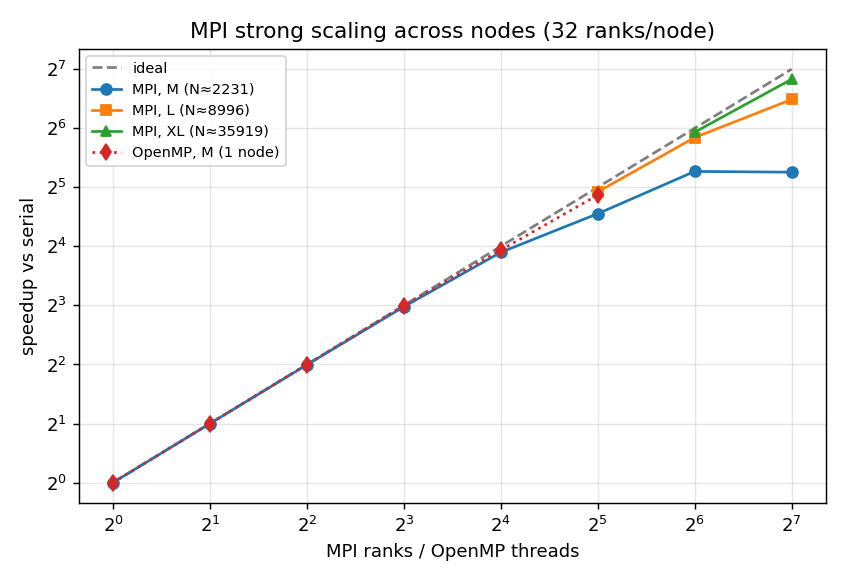
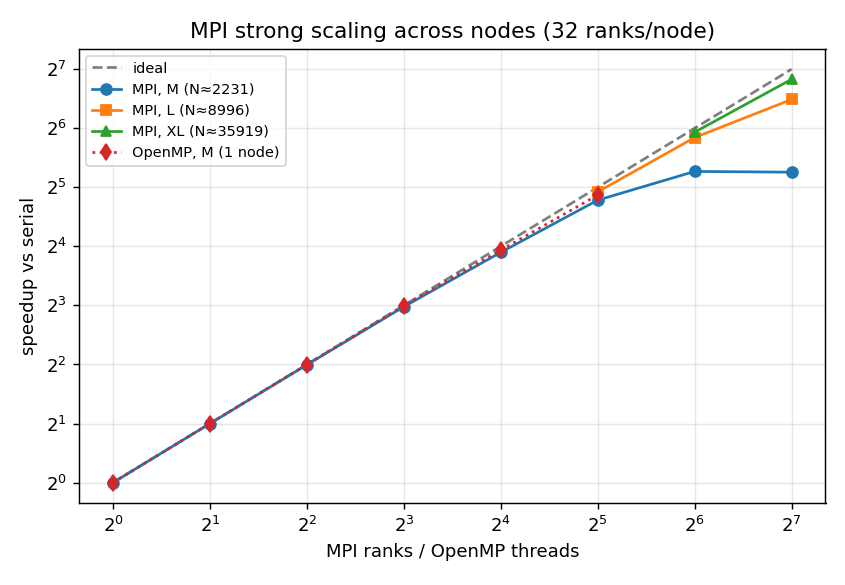
Particles: fix MPI aggregation — group by (ranks, nodes), not ranks alone
parse_mpi.py blended the single-node job's 32-rank runs (0.128 s) with the
4-node job's 32-rank runs (0.184 s, ranks spread over the allocation) into
one median, reporting M/32 as 23.5x/73%. Node count now comes from the log's
"# nodes:" header and flows through mpi.csv, the summary table, and the plots
(strong-scaling curves use the fastest allocation per rank count). Corrected
figures: M/32 packed = 27.5x (86%); M/32 over 4 nodes = 19.2x (60%). Also
relabels L/32, 64-rank, and W64 rows as 4-node-allocation runs in the summary
and in LEONARDO_RUN_STATUS.md. Data regenerated from the committed logs; no
cluster rerun needed.

diff --git a/tools/parse_mpi.py b/tools/parse_mpi.py
@@ -23,6 +23,11 @@ MARK = re.compile(r"-{2,}\s*BENCH\s+(?P<model>mpi(?:_weak)?)\s+ranks=(?P<ranks>\
 RE_N = re.compile(r"Particles:\s+(\d+)")
 RE_T = re.compile(r"Pure dynamics time:\s+([0-9.eE+-]+)\s*s")
 RE_G = re.compile(r"Pure dynamics performance:\s+([0-9.eE+-]+)\s*GInteractions/s")
+# Job-level allocation size, printed once per log by run_mpi_nodes.sh
+# ("# nodes: 4  (lrdn[...])"). Logs without it (run_mpi_all.sh) are 1-node jobs.
+# srun steps inside a multi-node allocation spread their ranks across ALL
+# allocated nodes, so every run inherits the log's allocation size.
+RE_NODES = re.compile(r"#\s*nodes:\s*(\d+)")
 
 
 def parse(paths):
@@ -32,11 +37,13 @@ def parse(paths):
             lines = open(p, encoding="utf-8", errors="replace").read().splitlines()
         except OSError as e:
             print(f"[warn] cannot read {p}: {e}", file=sys.stderr); continue
+        nodes = 1
         for ln in lines:
+            if (mm := RE_NODES.search(ln)): nodes = int(mm[1])
             if (m := MARK.search(ln)):
                 if cur: runs.append(cur)
                 cur = {"model": m["model"], "ranks": int(m["ranks"]), "size": m["size"],
-                       "rep": int(m["rep"]), "N": None, "time": None, "giups": None}
+                       "rep": int(m["rep"]), "nodes": nodes, "N": None, "time": None, "giups": None}
                 continue
             if cur is None: continue
             if (mm := RE_N.search(ln)) and cur["N"] is None: cur["N"] = int(mm[1])
@@ -82,32 +89,37 @@ def main():
         print("No MPI runs found.", file=sys.stderr); return 1
 
     with open(os.path.join(args.outdir, "mpi.csv"), "w", newline="") as f:
-        w = csv.writer(f); w.writerow(["model", "size", "ranks", "rep", "N", "pure_dynamics_s", "giups"])
-        for r in sorted(runs, key=lambda r: (r["model"], r["size"], r["ranks"], r["rep"])):
-            w.writerow([r["model"], r["size"], r["ranks"], r["rep"], r["N"], r["time"], r["giups"]])
+        w = csv.writer(f); w.writerow(["model", "size", "ranks", "nodes", "rep", "N", "pure_dynamics_s", "giups"])
+        for r in sorted(runs, key=lambda r: (r["model"], r["size"], r["ranks"], r["nodes"], r["rep"])):
+            w.writerow([r["model"], r["size"], r["ranks"], r["nodes"], r["rep"], r["N"], r["time"], r["giups"]])
 
     serial = {"M": median_from_csv(args.bench_csv, "serial"),
               "L": scaling_serial(args.scaling_csv, "L"),
               "XL": scaling_serial(args.scaling_csv, "XL")}
 
+    # Group by (model, size, ranks, nodes): the same rank count measured on a
+    # 1-node vs a 4-node allocation is a different experiment (inter-node
+    # communication) and must not be blended into one median.
     g = defaultdict(list)
-    for r in runs: g[(r["model"], r["size"], r["ranks"])].append(r["time"])
+    for r in runs: g[(r["model"], r["size"], r["ranks"], r["nodes"])].append(r["time"])
     med = {k: statistics.median(v) for k, v in g.items()}
 
     md = ["# MPI benchmark summary", "",
           "Strong-scaling speedup vs the measured serial medians "
-          f"(M={serial['M']:.4g}s, L={serial['L']:.4g}s, XL={serial['XL']:.4g}s).", "",
+          f"(M={serial['M']:.4g}s, L={serial['L']:.4g}s, XL={serial['XL']:.4g}s).",
+          "`nodes` is the SLURM allocation of the job; srun spreads the ranks",
+          "across all allocated nodes, so e.g. 32 ranks / 4 nodes = 8 ranks/node",
+          "(inter-node traffic), distinct from 32 ranks packed on 1 node.", "",
           "| kind | size | ranks | nodes | median dyn (s) | speedup | efficiency |",
           "|---|---|---|---|---|---|---|"]
-    for (model, size, ranks) in sorted(med, key=lambda k: (k[0], k[1], k[2])):
-        t = med[(model, size, ranks)]
-        nodes = max(1, (ranks + 31) // 32)
+    for (model, size, ranks, nodes) in sorted(med, key=lambda k: (k[0], k[1], k[2], k[3])):
+        t = med[(model, size, ranks, nodes)]
         if model == "mpi" and serial.get(size):
             sp = serial[size] / t
             eff = sp / ranks
             md.append(f"| strong | {size} | {ranks} | {nodes} | {t:.4g} | {sp:.2f}x | {eff*100:.0f}% |")
         elif model == "mpi_weak":
-            base = med.get(("mpi_weak", "W1", 1))
+            base = med.get(("mpi_weak", "W1", 1, 1))
             weff = (base / t) if base else None
             md.append(f"| weak | {size} | {ranks} | {nodes} | {t:.4g} | - | "
                       + (f"{weff*100:.0f}% |" if weff else "- |"))
@@ -122,13 +134,19 @@ def main():
         print(f"[warn] no matplotlib: {e}", file=sys.stderr); return 0
 
     # --- strong scaling: MPI (M/L/XL) vs OpenMP (M) ---
+    # Per (size, ranks) plot the best (fastest) allocation, so each curve shows
+    # the achievable speedup at that rank count; the summary table keeps every
+    # (ranks, nodes) configuration separately.
     plt.figure(figsize=(6.5, 4.5))
     ranks_all = sorted({k[2] for k in med if k[0] == "mpi"})
     plt.plot(ranks_all, ranks_all, "k--", alpha=.5, label="ideal")
     style = {"M": ("o-", "C0"), "L": ("s-", "C1"), "XL": ("^-", "C2")}
     for size, (fmt, col) in style.items():
-        pts = sorted([(k[2], serial[size] / med[k]) for k in med
-                      if k[0] == "mpi" and k[1] == size and serial.get(size)])
+        best = {}
+        for k, t in med.items():
+            if k[0] == "mpi" and k[1] == size and serial.get(size):
+                best[k[2]] = min(best.get(k[2], t), t)
+        pts = sorted((p, serial[size] / t) for p, t in best.items())
         if pts: plt.plot(*zip(*pts), fmt, color=col, label=f"MPI, {size} (N≈{ {'M':2231,'L':8996,'XL':35919}[size] })")
     # OpenMP reference from benchmarks.csv
     try:
@@ -147,7 +165,7 @@ def main():
     plt.savefig(os.path.join(args.outdir, "mpi_speedup.png"), dpi=130); plt.close()
 
     # --- weak scaling efficiency ---
-    base = med.get(("mpi_weak", "W1", 1))
+    base = med.get(("mpi_weak", "W1", 1, 1))
     pts = sorted([(k[2], base / med[k] * 100) for k in med if k[0] == "mpi_weak" and base])
     if pts:
         plt.figure(figsize=(6, 4))

diff --git a/LEONARDO_RUN_STATUS.md b/LEONARDO_RUN_STATUS.md
@@ -58,13 +58,18 @@ lrdn[0328,1731,1856,2358], Dragonfly+):**
   on `/pos`,`/vel`) **and** bitwise-identical across **1 → 128 ranks** (all 11
   validation quantities to 17 digits) — the block decomposition + per-step
   `MPI_Allgatherv` preserves the serial inner force-sum order exactly.
-- **Strong scaling** (pure-dynamics time, median of 3; 32 ranks/node):
+- **Strong scaling** (pure-dynamics time, median of 3). M ranks 1–32 ran on a
+  1-node allocation; every run of the 4-node job (all its 32/64/128-rank steps)
+  spread its ranks across the 4 nodes (Dragonfly+ inter-node traffic):
 
-  | N (size) | 8 | 16 | 32 (1 nd) | 64 (2 nd) | 128 (4 nd) |
-  |---|---|---|---|---|---|
-  | 2231 (M) | 7.9× | 14.9× | 27.5× (86%) | 38.5× (60%) | 38.2× (**30%, saturated**) |
-  | 8996 (L) | — | — | 30.3× (95%) | 57.4× (90%) | 89.7× (70%) |
-  | 35919 (XL) | — | — | — | 61.1× (95%) | **113.7× (89%)** |
+  | N (size) | 8 (1 nd) | 16 (1 nd) | 32 (1 nd) | 32 (4 nd) | 64 (4 nd) | 128 (4 nd) |
+  |---|---|---|---|---|---|---|
+  | 2231 (M) | 7.9× | 14.9× | 27.5× (86%) | 19.2× (60%) | 38.5× (60%) | 38.2× (**30%, saturated**) |
+  | 8996 (L) | — | — | — | 30.3× (95%) | 57.4× (90%) | 89.7× (70%) |
+  | 35919 (XL) | — | — | — | — | 61.1× (95%) | **113.7× (89%)** |
+
+  The M-size 32-rank pair is the communication cost isolated: same ranks, same
+  N — 27.5× packed on one node vs 19.2× spread over four.
 
   The scaling ceiling moves with problem size exactly as Amdahl + communication
   predict. At the official N=2231, 128 ranks (~17 particles/rank) is
@@ -76,8 +81,8 @@ lrdn[0328,1731,1856,2358], Dragonfly+):**
   **29.2× (91%)**. The gap is the per-step `MPI_Allgatherv` that OpenMP avoids via
   shared memory — the lecture's concrete argument for hybrid MPI+OpenMP within a node.
 - **Weak scaling** (constant work/rank, N ∝ √p): p=4 → 99%, p=16 → 95%,
-  **p=64 (2 nodes) → 92%** — holds up because per-rank work is fixed, so the
-  communication fraction stays bounded (the lecture's "weak scaling scales well").
+  **p=64 (4-node allocation) → 92%** — holds up because per-rank work is fixed,
+  so the communication fraction stays bounded (the lecture's "weak scaling scales well").
 - Artifacts: `src/cpp/particles_mpi.cpp`, `run_mpi_all.sh`, `run_mpi_nodes.sh`,
   `tools/parse_mpi.py`, `reports/{mpi_summary.md, mpi.csv, mpi_speedup.png, mpi_weak.png}`.
 

diff --git a/reports/mpi_summary.md b/reports/mpi_summary.md
@@ -1,23 +1,27 @@
 # MPI benchmark summary
 
 Strong-scaling speedup vs the measured serial medians (M=3.516s, L=57.13s, XL=227.7s).
+`nodes` is the SLURM allocation of the job; srun spreads the ranks
+across all allocated nodes, so e.g. 32 ranks / 4 nodes = 8 ranks/node
+(inter-node traffic), distinct from 32 ranks packed on 1 node.
 
 | kind | size | ranks | nodes | median dyn (s) | speedup | efficiency |
 |---|---|---|---|---|---|---|
-| strong | L | 32 | 1 | 1.885 | 30.31x | 95% |
-| strong | L | 64 | 2 | 0.9957 | 57.38x | 90% |
+| strong | L | 32 | 4 | 1.885 | 30.31x | 95% |
+| strong | L | 64 | 4 | 0.9957 | 57.38x | 90% |
 | strong | L | 128 | 4 | 0.6367 | 89.73x | 70% |
 | strong | M | 1 | 1 | 3.517 | 1.00x | 100% |
 | strong | M | 2 | 1 | 1.76 | 2.00x | 100% |
 | strong | M | 4 | 1 | 0.8822 | 3.99x | 100% |
 | strong | M | 8 | 1 | 0.4464 | 7.88x | 98% |
 | strong | M | 16 | 1 | 0.2357 | 14.92x | 93% |
-| strong | M | 32 | 1 | 0.1498 | 23.47x | 73% |
-| strong | M | 64 | 2 | 0.09119 | 38.55x | 60% |
+| strong | M | 32 | 1 | 0.1278 | 27.52x | 86% |
+| strong | M | 32 | 4 | 0.1836 | 19.15x | 60% |
+| strong | M | 64 | 4 | 0.09119 | 38.55x | 60% |
 | strong | M | 128 | 4 | 0.09199 | 38.22x | 30% |
-| strong | XL | 64 | 2 | 3.727 | 61.10x | 95% |
+| strong | XL | 64 | 4 | 3.727 | 61.10x | 95% |
 | strong | XL | 128 | 4 | 2.002 | 113.72x | 89% |
 | weak | W1 | 1 | 1 | 3.517 | - | 100% |
 | weak | W16 | 16 | 1 | 3.718 | - | 95% |
 | weak | W4 | 4 | 1 | 3.552 | - | 99% |
-| weak | W64 | 64 | 2 | 3.804 | - | 92% |
+| weak | W64 | 64 | 4 | 3.804 | - | 92% |
